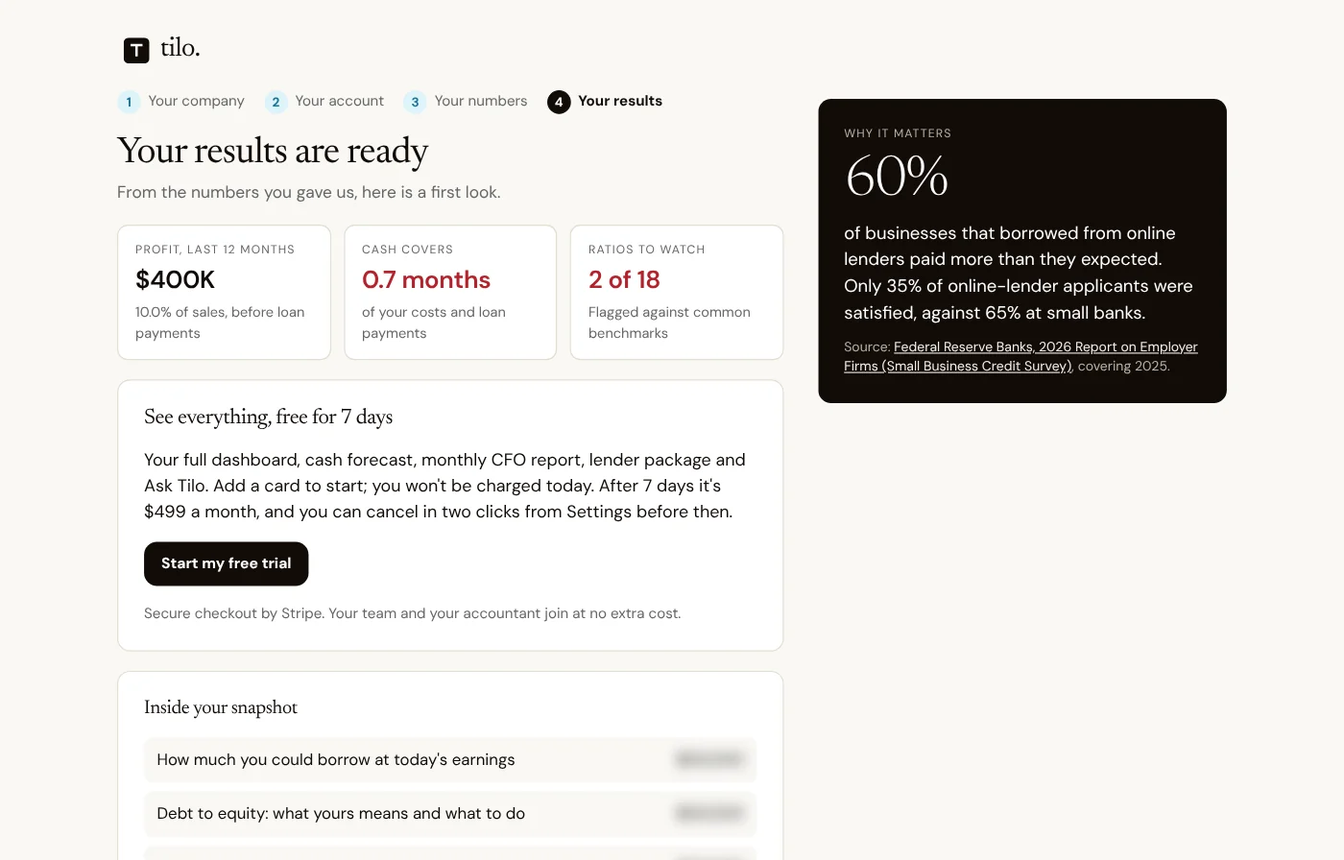
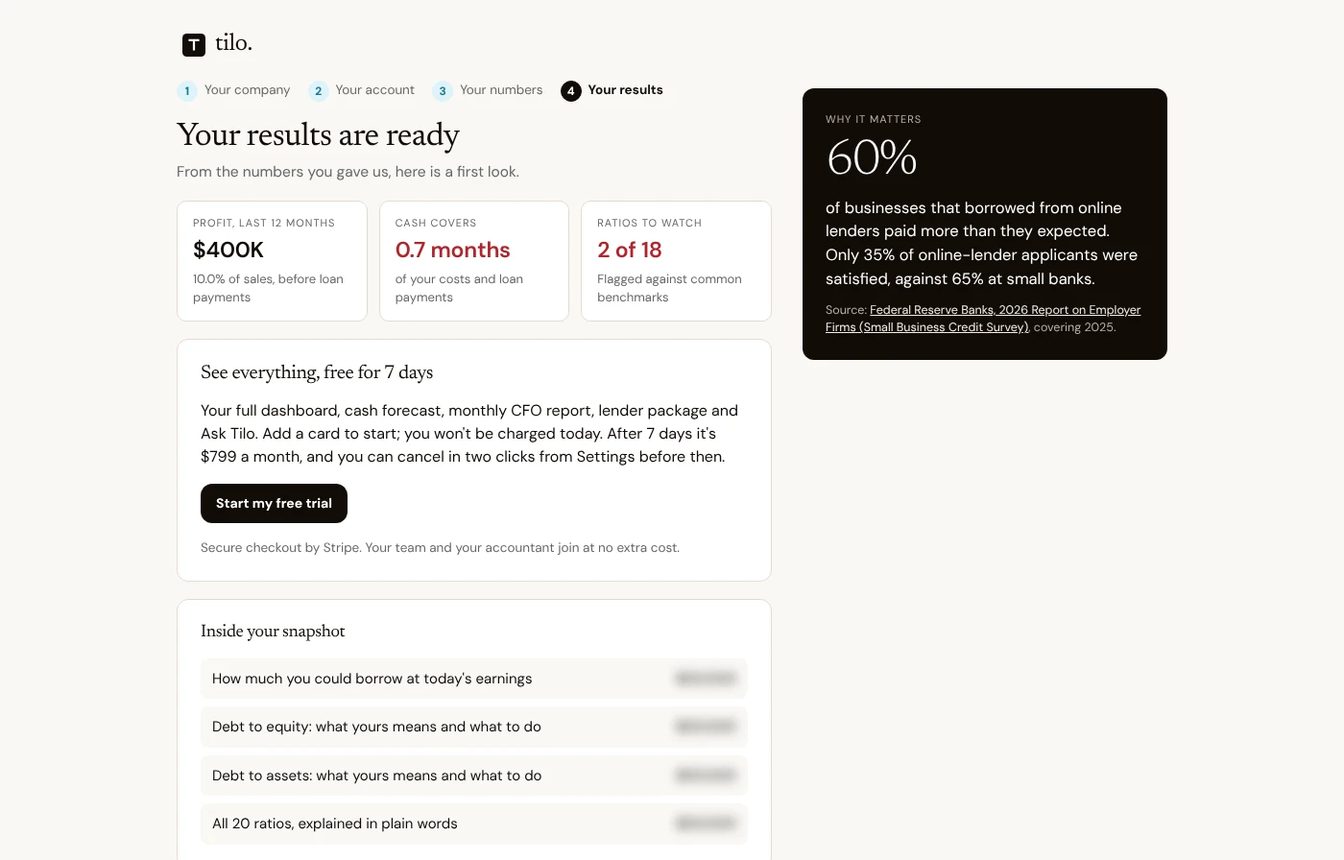
The Tilo app is now $799 a month after the 7-day free trial: homepage FAQ and comparison, Pricing page, compare page, accountants page, guides, terms (earlier subscribers keep their price) and the step 3 app screen
Claude-Session: https://claude.ai/code/session_01KGySCjMLjiFFrWBHVVzkGh

diff --git a/compare/index.html b/compare/index.html
@@ -133,7 +133,7 @@ h1,h2{font-family:"Newsreader",Georgia,serif;font-weight:400;letter-spacing:-.02
 <body>
 <header class="top"><div class="wrap"><a class="brand" href="/" aria-label="tilo home"><svg width="26" height="26" viewBox="0 0 26 26" aria-hidden="true"><rect width="26" height="26" rx="5" fill="var(--green)"/><path d="M7.5 8h11M13 8v11" fill="none" stroke="var(--on-green)" stroke-width="2.4" stroke-linejoin="round"/></svg><span>tilo<i>.</i></span></a>
 <nav class="navr" aria-label="Main"><a class="l" href="/calculators/">Free tools</a><a class="l" href="/compare/">Compare</a><a class="l" href="/for-accountants.html">For accountants</a><a class="l" href="/#pricing">Pricing</a><a class="btn" href="https://app.noricap.com/signup">Meet your AI CFO</a></nav></div></header>
-<main><div class="wrap narrow"><p class="crumb">Compare</p><h1>How Tilo compares.</h1><p class="lede">Tilo next to the other ways owners get a handle on their numbers: Clockwork, spreadsheets, Fathom, LivePlan and a fractional CFO, side by side on one page. Including when the other option is the better fit.</p></div><div class="wrap"><div class="wide-cmp"><div class="tw"><table class="cmp"><thead><tr><th scope="col"><span class="sr">Compare</span></th><th scope="col" class="us">Tilo</th><th scope="col">Clockwork</th><th scope="col">Spreadsheets</th><th scope="col">Fathom</th><th scope="col">LivePlan</th><th scope="col">A fractional CFO</th></tr></thead><tbody><tr><th scope="row">Cost</th><td class="us">From $499 a month per company, depending on usage and needs; 7-day free trial; team and accountant included</td><td>From $719 a month for businesses and $1,499 for accounting firms; 20% less paid annually; 14-day free trial, no card<sup>5</sup></td><td>Free, plus the hours to build and update them</td><td>From $59 a month for one company; lower per company for firms with many<sup>1</sup></td><td>Standard $20 or Premium $40 a month, paid monthly; less on an annual plan<sup>2,3</sup></td><td>Commonly $3,000 to $12,000 a month, depending on scope<sup>4</sup></td></tr><tr><th scope="row">Built mainly for</th><td class="us">Owners of a running business, and the advisors they invite</td><td>Accounting firms building an advisory practice, and growing businesses<sup>5</sup></td><td>Anyone willing to build the model</td><td>Accountants and advisors reporting to clients, and multi-entity groups<sup>1</sup></td><td>Writing a business plan, often for a new business or a loan application<sup>2,3</sup></td><td>Businesses that need a senior finance person part time</td></tr><tr><th scope="row">Where the numbers come from</th><td class="us">Actual books, read from QuickBooks Online or Xero every day, or an upload</td><td>QuickBooks Online and Desktop, Xero, Excel and Google Sheets, plus about ten payroll and HR systems<sup>5</sup></td><td>Exported and pasted in by hand</td><td>QuickBooks Online and Desktop, Xero, MYOB, Sage, FreeAgent, Excel and Google Sheets<sup>1</sup></td><td>Projections you write; QuickBooks and Xero sync on Premium<sup>2</sup></td><td>Your books, reviewed on their schedule</td></tr><tr><th scope="row">How current</th><td class="us">Every day</td><td>Synced from your books<sup>5</sup></td><td>Whenever someone updates it</td><td>Syncs every 24 hours, or on demand<sup>1</sup></td><td>When you update the plan, or on sync</td><td>Usually monthly, or at each meeting</td></tr><tr><th scope="row">Weekly cash forecast</th><td class="us">13 weeks, built and refreshed for you, with a warning before cash drops below your minimum</td><td>52-week cash flow forecast, plus a 5-year financial model<sup>5</sup></td><td>If you build it (<a href="/#template">free template</a>)</td><td>Forecasting offered; check Fathom for weekly cash detail<sup>1</sup></td><td>Cash flow projections as part of the plan<sup>3</sup></td><td>Usually, updated on their schedule</td></tr><tr><th scope="row">Problems flagged in dollars</th><td class="us">Late payers, rising supplier costs, duplicate payments, missing bills</td><td>Alerts from its AI analyst (Mira Watch)<sup>5</sup></td><td>Only if someone goes looking</td><td>Not listed in the sources we checked</td><td>Performance dashboards on Premium<sup>2</sup></td><td>At the next review</td></tr><tr><th scope="row">Budget vs actual</th><td class="us">Budget from last year in a minute; misses over 5% explained</td><td>Dashboards and scenario planning; budget vs actual not described on its homepage<sup>5</sup></td><td>Possible, with formulas you maintain</td><td>Budgets, including consolidated budgets<sup>1</sup></td><td>Compares projections to accounting data on Premium<sup>3</sup></td><td>Usually</td></tr><tr><th scope="row">Ask questions in plain English</th><td class="us">Yes, answered from your books</td><td>Yes, through its AI analyst, Mira<sup>5</sup></td><td>You work it out</td><td>AI commentary writer for reports<sup>1</sup>; Q&amp;A not listed</td><td>AI assistant for writing and forecast suggestions<sup>2,3</sup></td><td>When they are available</td></tr><tr><th scope="row">Lender package and coverage</th><td class="us">Coverage before and after a loan, the largest loan, PDF, Excel and a private lender link</td><td>Not listed on its homepage</td><td>Assembled by hand</td><td>Not listed in the sources we checked</td><td>Lender-ready statements from your projections<sup>2</sup></td><td>Usually, as a funding project</td></tr><tr><th scope="row">Consolidation across entities</th><td class="us">Not offered</td><td>Not listed on its homepage</td><td>If you build it</td><td>Yes, multi-currency, up to 300 entities<sup>1</sup></td><td>Not listed in the sources we checked</td><td>Yes</td></tr><tr><th scope="row">Business plan and pitch</th><td class="us">Not offered</td><td>A 5-year financial model, not a written plan<sup>5</sup></td><td>If you write it</td><td>Not its focus</td><td>Yes: guided writer, 550+ sample plans, one-page pitch<sup>2,3</sup></td><td>Often</td></tr><tr><th scope="row">Judgment, negotiation, lender relationships</th><td class="us">Gives you the numbers. You decide.</td><td>You or your advisor</td><td>You</td><td>You or your advisor</td><td>You</td><td>Yes. That's what you pay them for.</td></tr><tr><th scope="row">Security certification</th><td class="us">Not yet independently certified; read-only access, encrypted keys, each company kept separate</td><td>SOC 2 Type II<sup>5</sup></td><td>Depends on where you keep the file</td><td>SOC 2 Type 2<sup>1</sup></td><td>Not listed in the sources we checked</td><td>Depends on the firm</td></tr></tbody></table></div></div><p class="small" style="margin-top:10px">On a phone, scroll the table sideways; the row labels stay in view.</p></div><div class="wrap narrow"><h2>Tilo is the better fit if</h2><ul class="plain"><li>You own a running business with a year or more of books in QuickBooks or Xero</li><li>You want problems flagged and questions answered without building or maintaining anything</li><li>You're planning to borrow and want to know what a lender will see, with the package ready</li><li>You need a CFO's analysis, but not $3,000 or more a month of one</li></ul><h2>When something else fits better</h2><div class="two"><div class="box" id="clockwork"><h3>Clockwork is the better fit if</h3><ul><li>You want a 5-year financial model and a 52-week cash forecast, and the budget fits $719 a month or more</li><li>You're an accounting firm building an advisory practice across many clients</li><li>You need headcount planning tied to payroll and HR systems, or SOC 2 certification today</li></ul></div><div class="box" id="spreadsheets"><h3>Spreadsheets is the better fit if</h3><ul><li>You enjoy building models and have the time to keep them current</li><li>Your business is simple enough that a monthly look is enough</li><li>You need a one-off custom model</li></ul></div><div class="box" id="fathom"><h3>Fathom is the better fit if</h3><ul><li>You're an accounting firm producing branded reports for many clients at a low per-company price</li><li>You need consolidated reporting across entities or currencies</li><li>You use MYOB, Sage or QuickBooks Desktop</li></ul></div><div class="box" id="liveplan"><h3>LivePlan is the better fit if</h3><ul><li>You're starting a business and need a written business plan</li><li>You want a guided plan writer with sample plans and a pitch</li><li>You need projections with little or no history</li></ul></div><div class="box" id="fractional-cfo"><h3>A fractional CFO is the better fit if</h3><ul><li>You're raising equity, preparing for a sale, or need someone to manage lender relationships</li><li>You need someone to run the finance function, not just analyze it</li><li>You need board reporting and negotiation</li></ul></div></div><h2>Using them together</h2><p>Many businesses mix these. Advisors use Fathom or Clockwork for client reporting while the client uses Tilo day to day. LivePlan writes the plan for a new venture; Tilo shows how the existing business is actually doing. A fractional CFO's hours go further when the forecast, reports and lender package are already built, and you can invite your CFO or accountant to Tilo free.</p><section class="cta"><h2>Try Tilo on your own books.</h2><p>7-day free trial, then plans from $499 a month per company, based on usage and needs. Connect QuickBooks or Xero and see your first findings in minutes. Your accountant joins free.</p><a class="btn" href="https://app.noricap.com/signup">Start your free trial →</a></section><div class="sources"><b>Sources.</b> Competitor details come from public sources and were checked on November 2, 2026. Prices and features change; check each company's own site before you decide.<ol><li><a href="https://www.basedash.com/blog/best-reporting-tools-for-quickbooks-and-xero-compared-2026" rel="noopener" target="_blank">Basedash, &quot;Best QuickBooks and Xero reporting tools (2026)&quot;, prices and features checked October 10, 2026</a></li><li><a href="https://www.capterra.com/p/142049/LivePlan/pricing/" rel="noopener" target="_blank">Capterra, &quot;LivePlan Pricing 2026&quot;</a></li><li><a href="https://startupsavant.com/liveplan-review" rel="noopener" target="_blank">Startup Savant, &quot;LivePlan Review&quot;</a></li><li><a href="https://pilot.com/blog/fractional-cfo-cost-guide" rel="noopener" target="_blank">Pilot, &quot;Fractional CFO cost guide&quot;, August 18, 2025</a></li><li><a href="https://www.clockwork.ai/" rel="noopener" target="_blank">Clockwork, clockwork.ai homepage (pricing, features and integrations as listed)</a></li></ol></div></div></main>
+<main><div class="wrap narrow"><p class="crumb">Compare</p><h1>How Tilo compares.</h1><p class="lede">Tilo next to the other ways owners get a handle on their numbers: Clockwork, spreadsheets, Fathom, LivePlan and a fractional CFO, side by side on one page. Including when the other option is the better fit.</p></div><div class="wrap"><div class="wide-cmp"><div class="tw"><table class="cmp"><thead><tr><th scope="col"><span class="sr">Compare</span></th><th scope="col" class="us">Tilo</th><th scope="col">Clockwork</th><th scope="col">Spreadsheets</th><th scope="col">Fathom</th><th scope="col">LivePlan</th><th scope="col">A fractional CFO</th></tr></thead><tbody><tr><th scope="row">Cost</th><td class="us">$799 a month per company; 7-day free trial; team and accountant included</td><td>From $719 a month for businesses and $1,499 for accounting firms; 20% less paid annually; 14-day free trial, no card<sup>5</sup></td><td>Free, plus the hours to build and update them</td><td>From $59 a month for one company; lower per company for firms with many<sup>1</sup></td><td>Standard $20 or Premium $40 a month, paid monthly; less on an annual plan<sup>2,3</sup></td><td>Commonly $3,000 to $12,000 a month, depending on scope<sup>4</sup></td></tr><tr><th scope="row">Built mainly for</th><td class="us">Owners of a running business, and the advisors they invite</td><td>Accounting firms building an advisory practice, and growing businesses<sup>5</sup></td><td>Anyone willing to build the model</td><td>Accountants and advisors reporting to clients, and multi-entity groups<sup>1</sup></td><td>Writing a business plan, often for a new business or a loan application<sup>2,3</sup></td><td>Businesses that need a senior finance person part time</td></tr><tr><th scope="row">Where the numbers come from</th><td class="us">Actual books, read from QuickBooks Online or Xero every day, or an upload</td><td>QuickBooks Online and Desktop, Xero, Excel and Google Sheets, plus about ten payroll and HR systems<sup>5</sup></td><td>Exported and pasted in by hand</td><td>QuickBooks Online and Desktop, Xero, MYOB, Sage, FreeAgent, Excel and Google Sheets<sup>1</sup></td><td>Projections you write; QuickBooks and Xero sync on Premium<sup>2</sup></td><td>Your books, reviewed on their schedule</td></tr><tr><th scope="row">How current</th><td class="us">Every day</td><td>Synced from your books<sup>5</sup></td><td>Whenever someone updates it</td><td>Syncs every 24 hours, or on demand<sup>1</sup></td><td>When you update the plan, or on sync</td><td>Usually monthly, or at each meeting</td></tr><tr><th scope="row">Weekly cash forecast</th><td class="us">13 weeks, built and refreshed for you, with a warning before cash drops below your minimum</td><td>52-week cash flow forecast, plus a 5-year financial model<sup>5</sup></td><td>If you build it (<a href="/#template">free template</a>)</td><td>Forecasting offered; check Fathom for weekly cash detail<sup>1</sup></td><td>Cash flow projections as part of the plan<sup>3</sup></td><td>Usually, updated on their schedule</td></tr><tr><th scope="row">Problems flagged in dollars</th><td class="us">Late payers, rising supplier costs, duplicate payments, missing bills</td><td>Alerts from its AI analyst (Mira Watch)<sup>5</sup></td><td>Only if someone goes looking</td><td>Not listed in the sources we checked</td><td>Performance dashboards on Premium<sup>2</sup></td><td>At the next review</td></tr><tr><th scope="row">Budget vs actual</th><td class="us">Budget from last year in a minute; misses over 5% explained</td><td>Dashboards and scenario planning; budget vs actual not described on its homepage<sup>5</sup></td><td>Possible, with formulas you maintain</td><td>Budgets, including consolidated budgets<sup>1</sup></td><td>Compares projections to accounting data on Premium<sup>3</sup></td><td>Usually</td></tr><tr><th scope="row">Ask questions in plain English</th><td class="us">Yes, answered from your books</td><td>Yes, through its AI analyst, Mira<sup>5</sup></td><td>You work it out</td><td>AI commentary writer for reports<sup>1</sup>; Q&amp;A not listed</td><td>AI assistant for writing and forecast suggestions<sup>2,3</sup></td><td>When they are available</td></tr><tr><th scope="row">Lender package and coverage</th><td class="us">Coverage before and after a loan, the largest loan, PDF, Excel and a private lender link</td><td>Not listed on its homepage</td><td>Assembled by hand</td><td>Not listed in the sources we checked</td><td>Lender-ready statements from your projections<sup>2</sup></td><td>Usually, as a funding project</td></tr><tr><th scope="row">Consolidation across entities</th><td class="us">Not offered</td><td>Not listed on its homepage</td><td>If you build it</td><td>Yes, multi-currency, up to 300 entities<sup>1</sup></td><td>Not listed in the sources we checked</td><td>Yes</td></tr><tr><th scope="row">Business plan and pitch</th><td class="us">Not offered</td><td>A 5-year financial model, not a written plan<sup>5</sup></td><td>If you write it</td><td>Not its focus</td><td>Yes: guided writer, 550+ sample plans, one-page pitch<sup>2,3</sup></td><td>Often</td></tr><tr><th scope="row">Judgment, negotiation, lender relationships</th><td class="us">Gives you the numbers. You decide.</td><td>You or your advisor</td><td>You</td><td>You or your advisor</td><td>You</td><td>Yes. That's what you pay them for.</td></tr><tr><th scope="row">Security certification</th><td class="us">Not yet independently certified; read-only access, encrypted keys, each company kept separate</td><td>SOC 2 Type II<sup>5</sup></td><td>Depends on where you keep the file</td><td>SOC 2 Type 2<sup>1</sup></td><td>Not listed in the sources we checked</td><td>Depends on the firm</td></tr></tbody></table></div></div><p class="small" style="margin-top:10px">On a phone, scroll the table sideways; the row labels stay in view.</p></div><div class="wrap narrow"><h2>Tilo is the better fit if</h2><ul class="plain"><li>You own a running business with a year or more of books in QuickBooks or Xero</li><li>You want problems flagged and questions answered without building or maintaining anything</li><li>You're planning to borrow and want to know what a lender will see, with the package ready</li><li>You need a CFO's analysis, but not $3,000 or more a month of one</li></ul><h2>When something else fits better</h2><div class="two"><div class="box" id="clockwork"><h3>Clockwork is the better fit if</h3><ul><li>You want a 5-year financial model and a 52-week cash forecast, and the budget fits $719 a month or more</li><li>You're an accounting firm building an advisory practice across many clients</li><li>You need headcount planning tied to payroll and HR systems, or SOC 2 certification today</li></ul></div><div class="box" id="spreadsheets"><h3>Spreadsheets is the better fit if</h3><ul><li>You enjoy building models and have the time to keep them current</li><li>Your business is simple enough that a monthly look is enough</li><li>You need a one-off custom model</li></ul></div><div class="box" id="fathom"><h3>Fathom is the better fit if</h3><ul><li>You're an accounting firm producing branded reports for many clients at a low per-company price</li><li>You need consolidated reporting across entities or currencies</li><li>You use MYOB, Sage or QuickBooks Desktop</li></ul></div><div class="box" id="liveplan"><h3>LivePlan is the better fit if</h3><ul><li>You're starting a business and need a written business plan</li><li>You want a guided plan writer with sample plans and a pitch</li><li>You need projections with little or no history</li></ul></div><div class="box" id="fractional-cfo"><h3>A fractional CFO is the better fit if</h3><ul><li>You're raising equity, preparing for a sale, or need someone to manage lender relationships</li><li>You need someone to run the finance function, not just analyze it</li><li>You need board reporting and negotiation</li></ul></div></div><h2>Using them together</h2><p>Many businesses mix these. Advisors use Fathom or Clockwork for client reporting while the client uses Tilo day to day. LivePlan writes the plan for a new venture; Tilo shows how the existing business is actually doing. A fractional CFO's hours go further when the forecast, reports and lender package are already built, and you can invite your CFO or accountant to Tilo free.</p><section class="cta"><h2>Try Tilo on your own books.</h2><p>7-day free trial, then $799 a month per company. Connect QuickBooks or Xero and see your first findings in minutes. Your accountant joins free.</p><a class="btn" href="https://app.noricap.com/signup">Start your free trial →</a></section><div class="sources"><b>Sources.</b> Competitor details come from public sources and were checked on November 2, 2026. Prices and features change; check each company's own site before you decide.<ol><li><a href="https://www.basedash.com/blog/best-reporting-tools-for-quickbooks-and-xero-compared-2026" rel="noopener" target="_blank">Basedash, &quot;Best QuickBooks and Xero reporting tools (2026)&quot;, prices and features checked October 10, 2026</a></li><li><a href="https://www.capterra.com/p/142049/LivePlan/pricing/" rel="noopener" target="_blank">Capterra, &quot;LivePlan Pricing 2026&quot;</a></li><li><a href="https://startupsavant.com/liveplan-review" rel="noopener" target="_blank">Startup Savant, &quot;LivePlan Review&quot;</a></li><li><a href="https://pilot.com/blog/fractional-cfo-cost-guide" rel="noopener" target="_blank">Pilot, &quot;Fractional CFO cost guide&quot;, August 18, 2025</a></li><li><a href="https://www.clockwork.ai/" rel="noopener" target="_blank">Clockwork, clockwork.ai homepage (pricing, features and integrations as listed)</a></li></ol></div></div></main>
 <footer><div class="wrap"><span><b style="font-family:var(--body);color:var(--ink);font-size:18px">tilo<span style="color:var(--green)">.</span></b> by Nori Cap · New York · <a href="mailto:pa@noricap.com">pa@noricap.com</a></span><nav aria-label="Footer"><a href="/">Home</a><a href="/calculators/">Calculators</a><a href="/compare/">Compare</a><a href="/for-accountants.html">For accountants</a><a href="/guides/">Guides</a><a href="/privacy.html">Privacy</a><a href="/terms.html">Terms</a></nav>
 <p class="disc">Calculators and comparisons are for general information, not financial, tax, legal or lending advice. Lenders set their own requirements. QuickBooks is a registered trademark of Intuit Inc. Xero is a trademark of Xero Limited. Clockwork, Fathom and LivePlan are trademarks of their owners. Tilo is not affiliated with or endorsed by them.</p></div></footer>
 <script>

diff --git a/index.html b/index.html
@@ -37,7 +37,7 @@
 {"@type":"Question","name":"Do I need to change my existing systems?","acceptedAnswer":{"@type":"Answer","text":"No. Tilo only reads your books. It never posts, edits or deletes anything, moves money, or files anything."}},
 {"@type":"Question","name":"What does my accountant still handle?","acceptedAnswer":{"@type":"Answer","text":"The books and your taxes. Tilo reads those books and turns them into answers, warnings and a forecast. Invite your accountant free, so your meetings start with the answers."}},
 {"@type":"Question","name":"How long does setup take?","acceptedAnswer":{"@type":"Answer","text":"Minutes. Connected books import the last 24 months, usually in a minute or two, then refresh every day."}},
-{"@type":"Question","name":"What does Tilo cost?","acceptedAnswer":{"@type":"Answer","text":"It depends on how you use Tilo and what your business needs. Plans start at $499 a month per company, after a 7-day free trial. You see a first look at your own results before you add a card, and you can cancel anytime in Settings. Your team and your accountant join free. Accountants and advisors with 5 or more client companies can ask about partner pricing."}},
+{"@type":"Question","name":"What does Tilo cost?","acceptedAnswer":{"@type":"Answer","text":"The Tilo app is $799 a month per company, after a 7-day free trial. If you want us to do more of the work, the collections agent is $349 a month, bookkeeping starts at $499 a month and Scale is $1,500 to $5,000 a month; see the Pricing page. You see a first look at your own results before you add a card, and you can cancel anytime in Settings. Your team and your accountant join free. Accountants and advisors with 5 or more client companies can ask about partner pricing."}},
 {"@type":"Question","name":"Can Tilo help me find funding?","acceptedAnswer":{"@type":"Answer","text":"Yes. The Funding page shows your debt service coverage today and with the loan you want, the largest loan your earnings support, and builds a lender package from your books. Download it as a PDF and an Excel file, or send your lender a private link that expires after 30 days. Tilo doesn't lend money or make introductions for a fee."}},
 {"@type":"Question","name":"What if my books are messy?","acceptedAnswer":{"@type":"Answer","text":"Most are. Tilo tells you how much spending it couldn't place, and uncategorized spending is often a finding in its own right."}},
 {"@type":"Question","name":"Am I too small for Tilo?","acceptedAnswer":{"@type":"Answer","text":"If you keep books and have customers and suppliers to track, Tilo has something to work with. It works best with at least a year of history; with only a few months, trends and the forecast are rougher, and Tilo says so."}},
@@ -577,7 +577,7 @@ footer .disc{flex-basis:100%;font-size:13px;margin:0}
       <article class="cs-card"><span class="cs-k">Your data</span><h3>Private by default.</h3><ul><li><b>We only read.</b> Nothing is posted, edited or deleted in your books.</li><li><b>No money moves.</b> Tilo has no access to bank accounts, payroll or tax filings.</li><li><b>Delete any time</b> from Settings. We don't sell your data.</li></ul><p style="margin-top:auto">Works with QuickBooks Online, Xero, and exports from any accounting system.</p></article>
       <article class="cs-card"><span class="cs-k">How Tilo compares</span><h3>A CFO's view, for a fraction of the cost.</h3>
         <table class="cs-cmp"><tr><th></th><th>Tilo</th><th>Spreadsheet</th><th>Fractional CFO</th></tr>
-        <tr><td>Cost</td><td>From $499 a month</td><td>Free, plus your evenings</td><td>Often $3,000–$12,000 a month*</td></tr>
+        <tr><td>Cost</td><td>$799 a month</td><td>Free, plus your evenings</td><td>Often $3,000–$12,000 a month*</td></tr>
         <tr><td>Up to date</td><td>Every day</td><td>When someone updates it</td><td>Usually monthly</td></tr>
         <tr><td>Spots problems</td><td>Flags each one in dollars</td><td>Only if you look</td><td>At the next meeting</td></tr></table>
         <p style="font-size:13px;margin-top:auto">*Pilot, “Fractional CFO cost guide”, checked November 2, 2026. <a href="/compare/">Full comparison</a></p></article>
@@ -595,7 +595,7 @@ footer .disc{flex-basis:100%;font-size:13px;margin:0}
         <details><summary>Do I need to change my existing systems?<span class="plus" aria-hidden="true">+</span></summary><p>No. Tilo only reads your books. It never posts, edits or deletes anything, moves money, or files anything.</p></details>
         <details><summary>What does my accountant still handle?<span class="plus" aria-hidden="true">+</span></summary><p>The books and your taxes. Tilo reads those books and turns them into answers, warnings and a forecast. Invite your accountant free, so your meetings start with the answers.</p></details>
         <details><summary>How long does setup take?<span class="plus" aria-hidden="true">+</span></summary><p>Minutes. Connected books import the last 24 months, usually in a minute or two, then refresh every day.</p></details>
-        <details id="pricing"><summary>What does Tilo cost?<span class="plus" aria-hidden="true">+</span></summary><p>It depends on how you use Tilo and what your business needs. Plans start at $499 a month per company, after a 7-day free trial. You see a first look at your own results before you add a card, and you can cancel anytime in Settings. Your team and your accountant join free. Accountants and advisors with 5 or more client companies can ask about partner pricing.</p></details>
+        <details id="pricing"><summary>What does Tilo cost?<span class="plus" aria-hidden="true">+</span></summary><p>The Tilo app is $799 a month per company, after a 7-day free trial. If you want us to do more of the work, the collections agent is $349 a month, bookkeeping starts at $499 a month and Scale is $1,500 to $5,000 a month; see the Pricing page. You see a first look at your own results before you add a card, and you can cancel anytime in Settings. Your team and your accountant join free. Accountants and advisors with 5 or more client companies can ask about partner pricing.</p></details>
         <details><summary>Can Tilo help me find funding?<span class="plus" aria-hidden="true">+</span></summary><p>Yes. The Funding page shows your debt service coverage today and with the loan you want, the largest loan your earnings support, and builds a lender package from your books. Download it as a PDF and an Excel file, or send your lender a private link that expires after 30 days. Tilo doesn't lend money or make introductions for a fee.</p></details>
         <details><summary>What if my books are messy?<span class="plus" aria-hidden="true">+</span></summary><p>Most are. Tilo tells you how much spending it couldn't place, and uncategorized spending is often a finding in its own right.</p></details>
         <details><summary>Am I too small for Tilo?<span class="plus" aria-hidden="true">+</span></summary><p>If you keep books and have customers and suppliers to track, Tilo has something to work with. It works best with at least a year of history; with only a few months, trends and the forecast are rougher, and Tilo says so.</p></details>

diff --git a/terms.html b/terms.html
@@ -68,7 +68,7 @@ h1,h2{font-family:"Newsreader",Georgia,serif;font-weight:400;letter-spacing:-.02
 
 <p class="label">Legal</p>
 <h1>Terms of Service</h1>
-<p class="meta">Last updated November 4, 2026 (new price)</p>
+<p class="meta">Last updated November 9, 2026 (new price)</p>
 <p>These terms are an agreement between you and Nori Capital LLC, doing business as Nori Cap ("Nori Cap," "we," "us"), and govern your use of noricap.com and the Tilo app at app.noricap.com (together, "Tilo"). By creating an account or using Tilo, you agree to them. If you use Tilo for a company or firm, you confirm you're allowed to accept these terms on its behalf. Our <a href="/privacy.html">Privacy Policy</a> explains how we handle data.</p>
 
 <h2>What Tilo is</h2>
@@ -76,8 +76,8 @@ h1,h2{font-family:"Newsreader",Georgia,serif;font-weight:400;letter-spacing:-.02
 
 <h2>Price, free trial and billing</h2>
 <ul>
-<li>Tilo costs $499 a month for each company, plus any taxes that apply. The price is shown before you subscribe.</li>
-<li>A new company starts with a 7-day free trial, and you add a card to start it. If you don't cancel before the trial ends, your card is charged $499 when it ends and then on the same date every month. Each company can have one free trial.</li>
+<li>Tilo costs $799 a month for each company, plus any taxes that apply. The price is shown before you subscribe. Subscriptions started before November 9, 2026 keep the price they started at.</li>
+<li>A new company starts with a 7-day free trial, and you add a card to start it. If you don't cancel before the trial ends, your card is charged $799 when it ends and then on the same date every month. Each company can have one free trial.</li>
 <li>Subscriptions renew automatically every month until you cancel. You can cancel anytime in Settings → Billing → Manage billing. Cancelling stops future charges, and you keep access until the end of the period you've paid for. We don't refund partial months, except where the law requires it.</li>
 <li>Payments are processed by Stripe. If a payment fails, we'll tell you and retry. If it still can't be collected, we may suspend access to that company until it's paid.</li>
 <li>We may change the price. We'll tell you at least 30 days before a new price applies to you, so you can cancel first if you choose.</li>

diff --git a/pricing.html b/pricing.html
@@ -174,7 +174,7 @@ main details summary{list-style:none}main details summary::-webkit-details-marke
         <a href="#talk" style="margin-top: auto; text-align: center; background: #FFFFFF; color: #120C08; text-decoration: none; font-weight: 500; font-size: 16px; padding: 14px 20px; border-radius: 12px">Book a call</a>
       </article>
     </div>
-    <p style="margin: 20px 0 0; font-size: 15px; color: #666666">Just want the software? <a href="https://app.noricap.com/signup">The Tilo app on its own</a> is $499 a month after a 7-day free trial.</p>
+    <p style="margin: 20px 0 0; font-size: 15px; color: #666666">Just want the software? <a href="https://app.noricap.com/signup">The Tilo app on its own</a> is $799 a month after a 7-day free trial.</p>
   </section>
 
   <!-- Collections spotlight -->
@@ -281,7 +281,7 @@ main details summary{list-style:none}main details summary::-webkit-details-marke
           <tr style="text-align: left">
             <th scope="col" style="padding: 18px 20px; border-bottom: 1px solid #E3DDCF; font-weight: 500; color: #666666; width: 32%"></th>
             <th scope="col" style="padding: 18px 20px; border-bottom: 1px solid #E3DDCF; font-weight: 600">Collections agent<div style="font-weight: 400; color: #666666; font-size: 13.5px">$349 a month</div></th>
-            <th scope="col" style="padding: 18px 20px; border-bottom: 1px solid #E3DDCF; font-weight: 600">Tilo app<div style="font-weight: 400; color: #666666; font-size: 13.5px">$499 a month</div></th>
+            <th scope="col" style="padding: 18px 20px; border-bottom: 1px solid #E3DDCF; font-weight: 600">Tilo app<div style="font-weight: 400; color: #666666; font-size: 13.5px">$799 a month</div></th>
             <th scope="col" style="padding: 18px 20px; border-bottom: 1px solid #E3DDCF; font-weight: 600">Bookkeeping<div style="font-weight: 400; color: #666666; font-size: 13.5px">From $499 a month</div></th>
             <th scope="col" style="padding: 18px 20px; border-bottom: 1px solid #E3DDCF; font-weight: 600">Scale<div style="font-weight: 400; color: #666666; font-size: 13.5px">$1,500–$5,000 a month</div></th>
           </tr>

diff --git a/for-accountants.html b/for-accountants.html
@@ -157,7 +157,7 @@ h1,h2{font-family:"Newsreader",Georgia,serif;font-weight:400;letter-spacing:-.02
 <h2>What stays with you</h2>
 <p>Tilo doesn't keep books, file taxes or give tax advice, and it never posts to the ledger. It reads the books you keep and turns them into questions worth asking. The judgment, and the client relationship, stay yours.</p>
 <h2>Partner pricing</h2>
-<p>Client plans start at $499 a month per company, based on usage and needs, after a 7-day free trial, and you join free. If your firm wants to bring Tilo to 5 or more client companies, or to cover the subscription for your clients, we offer partner pricing. Tell us about your firm below.</p>
+<p>The Tilo app is $799 a month per client company after a 7-day free trial, and you join free. If your firm wants to bring Tilo to 5 or more client companies, or to cover the subscription for your clients, we offer partner pricing. Tell us about your firm below.</p>
 <section id="partner" style="margin-top:24px">
 <form class="pform" id="partner-form" name="partners" method="POST" action="/thanks.html" data-netlify="true" netlify-honeypot="bot-field" novalidate>
   <input type="hidden" name="form-name" value="partners"><input type="hidden" name="source" value="for-accountants">

diff --git a/guides/hvac-plumbing-business-borrowing.html b/guides/hvac-plumbing-business-borrowing.html
@@ -156,7 +156,7 @@ Your equity               about $198,000</div>
 
 <p>This guide is general information, not financial or legal advice. Rates and lender rules change, so confirm them with your lender.</p>
 
-<div class="cta"><h2>See your real number, from your books.</h2><p>Tilo reads your QuickBooks or Xero books, works out earnings with add-backs, shows your coverage and the largest loan at 1.25x, and builds the package a lender asks for. 7-day free trial, then plans from $499 a month, based on usage and needs.</p><a class="btn" href="https://app.noricap.com/signup">Get your AI CFO</a></div>
+<div class="cta"><h2>See your real number, from your books.</h2><p>Tilo reads your QuickBooks or Xero books, works out earnings with add-backs, shows your coverage and the largest loan at 1.25x, and builds the package a lender asks for. 7-day free trial, then $799 a month.</p><a class="btn" href="https://app.noricap.com/signup">Get your AI CFO</a></div>
 
 <h2>Sources</h2>
 <p class="meta">All checked November 5, 2026. Several are lender, broker or software company pages, so treat their figures as a guide.</p>

diff --git a/guides/restaurant-borrowing.html b/guides/restaurant-borrowing.html
@@ -165,7 +165,7 @@ Daily EBITDA ($120,000/365)  $329 a day</div>
 
 <p>This guide is general information, not financial or legal advice. Rates and lender rules change, so confirm them with your lender.</p>
 
-<div class="cta"><h2>See your real number, from your books.</h2><p>Tilo reads your QuickBooks or Xero books, works out earnings with add-backs, shows your coverage and the largest loan at 1.25x, and builds the package a lender asks for. 7-day free trial, then plans from $499 a month, based on usage and needs.</p><a class="btn" href="https://app.noricap.com/signup">Get your AI CFO</a></div>
+<div class="cta"><h2>See your real number, from your books.</h2><p>Tilo reads your QuickBooks or Xero books, works out earnings with add-backs, shows your coverage and the largest loan at 1.25x, and builds the package a lender asks for. 7-day free trial, then $799 a month.</p><a class="btn" href="https://app.noricap.com/signup">Get your AI CFO</a></div>
 
 <h2>Sources</h2>
 <p class="meta">All checked November 6, 2026. Several are lender, broker or software company pages, so treat their figures as a guide.</p>

diff --git a/guides/trucking-company-borrowing.html b/guides/trucking-company-borrowing.html
@@ -151,7 +151,7 @@ Yearly cost of the cash:
 
 <p>This guide is general information, not financial or legal advice. Rates and lender rules change, so confirm them with your lender.</p>
 
-<div class="cta"><h2>See your real number, from your books.</h2><p>Tilo reads your QuickBooks or Xero books, works out earnings with add-backs, shows your coverage and the largest loan at 1.25x, and builds the package a lender asks for. 7-day free trial, then plans from $499 a month, based on usage and needs.</p><a class="btn" href="https://app.noricap.com/signup">Get your AI CFO</a></div>
+<div class="cta"><h2>See your real number, from your books.</h2><p>Tilo reads your QuickBooks or Xero books, works out earnings with add-backs, shows your coverage and the largest loan at 1.25x, and builds the package a lender asks for. 7-day free trial, then $799 a month.</p><a class="btn" href="https://app.noricap.com/signup">Get your AI CFO</a></div>
 
 <h2>Sources</h2>
 <p class="meta">All checked November 9, 2026. Several are lender, broker or referral pages, so treat their figures as a guide.</p>

diff --git a/guides/construction-company-borrowing.html b/guides/construction-company-borrowing.html
@@ -153,7 +153,7 @@ $600,000 ÷ ($96,000 + $79,712
 
 <p>This guide is general information, not financial or legal advice. Rates and lender rules change, so confirm them with your lender.</p>
 
-<div class="cta"><h2>See your real number, from your books.</h2><p>Tilo reads your QuickBooks or Xero books, works out earnings with add-backs, shows your coverage and the largest loan at 1.25x, and builds the package a lender asks for. 7-day free trial, then plans from $499 a month, based on usage and needs.</p><a class="btn" href="https://app.noricap.com/signup">Get your AI CFO</a></div>
+<div class="cta"><h2>See your real number, from your books.</h2><p>Tilo reads your QuickBooks or Xero books, works out earnings with add-backs, shows your coverage and the largest loan at 1.25x, and builds the package a lender asks for. 7-day free trial, then $799 a month.</p><a class="btn" href="https://app.noricap.com/signup">Get your AI CFO</a></div>
 
 <h2>Sources</h2>
 <p class="meta">All checked November 4, 2026.</p>

diff --git a/CLAUDE.md b/CLAUDE.md
@@ -44,7 +44,7 @@ Philip and Pratibha both work on this repo, each with their own Claude sessions.
 
 ## Facts on the site must be true
 
-- Price: from $499 a month per company, based on usage and needs, after a 7-day free trial (set November 4, 2026). The app checkout and terms.html charge $499 a month; Plans on `pricing.html` (the Pricing page, formerly services.html) (added November 9, 2026, agreed by Philip and Pratibha): Collections agent $349 a month, Bookkeeping from $499 a month, Scale $1,500 to $5,000 a month (tagged "Best value"); all three are sold through "Talk to us" (pa@noricap.com), not app checkout. The collections agent is listed as available while it is still being built in the app (Pratibha's decision); the app today flags late payers but does not send reminders. Team and accountant join free; partner pricing for firms with 5+ client companies.
+- Price: the Tilo app is $799 a month per company after a 7-day free trial (set November 9, 2026, by Pratibha; was $499 from November 4). The app checkout and terms.html charge $799 to new sign-ups; earlier subscribers keep their price. Plans on `pricing.html` (the Pricing page, formerly services.html) (added November 9, 2026, agreed by Philip and Pratibha): Collections agent $349 a month, Bookkeeping from $499 a month, Scale $1,500 to $5,000 a month (tagged "Best value"); all three are sold through "Talk to us" (pa@noricap.com), not app checkout. The collections agent is listed as available while it is still being built in the app (Pratibha's decision); the app today flags late payers but does not send reminders. Team and accountant join free; partner pricing for firms with 5+ client companies.
 - Only describe features the app actually has. Check the app repo if unsure.
 - Competitor details (Fathom, LivePlan, fractional CFO costs) must cite a source and the date checked; refresh them if you touch the compare page.
 - Lender coverage: many banks look for 1.25x; SBA 7(a) is 1.15x for most loans and, from October 1, 2026 (SOP 50 10 8.1), reported as 1.25x for business acquisitions.
